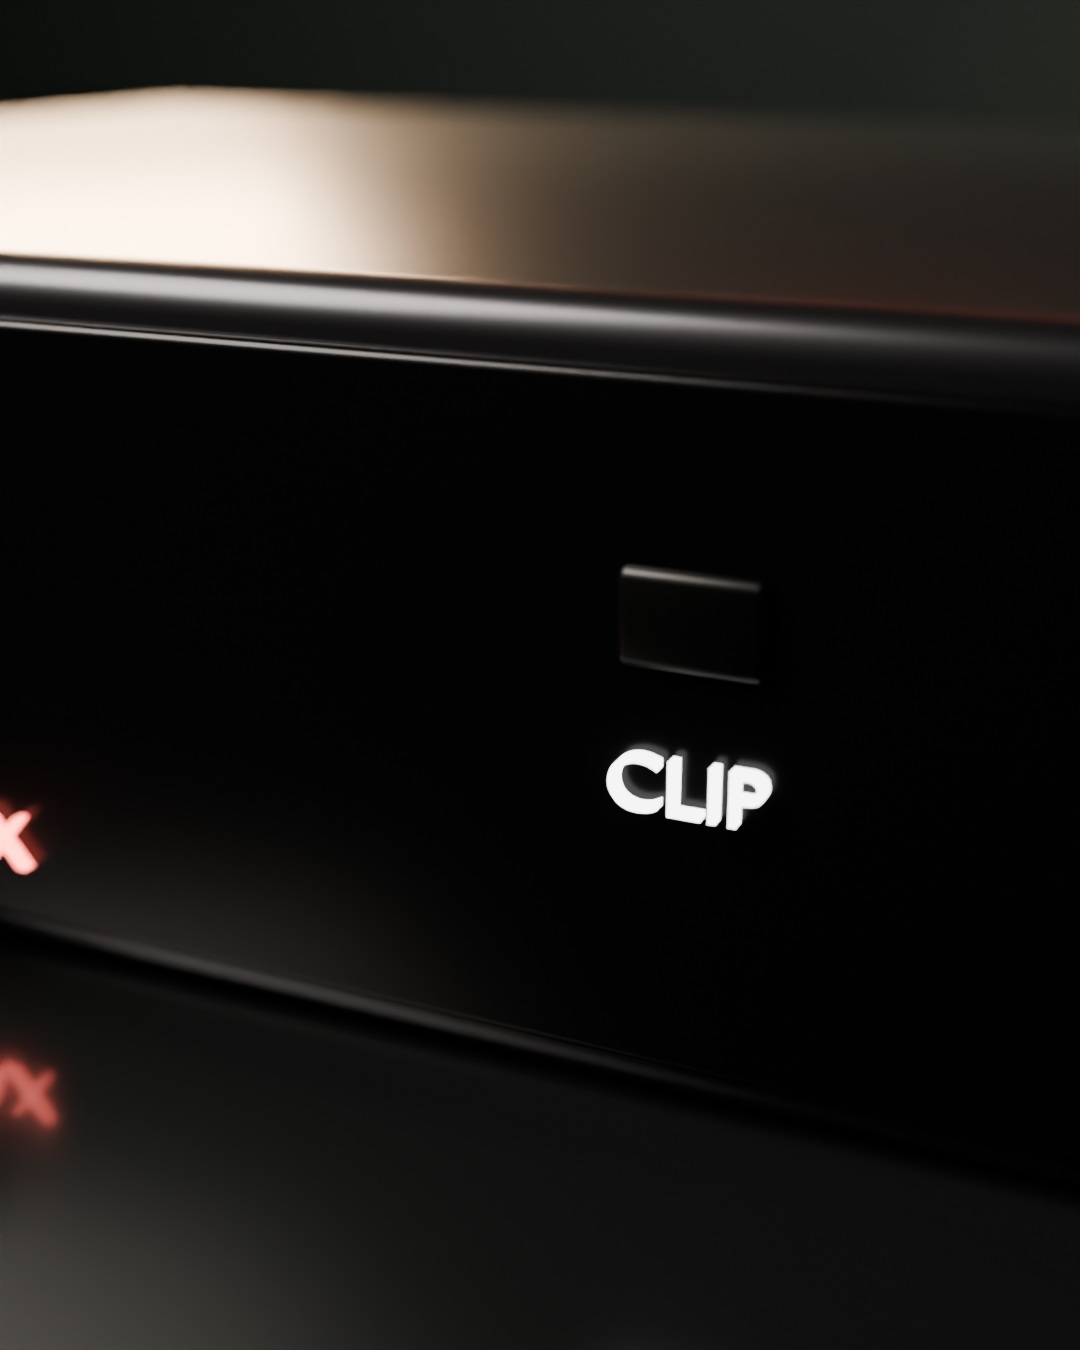
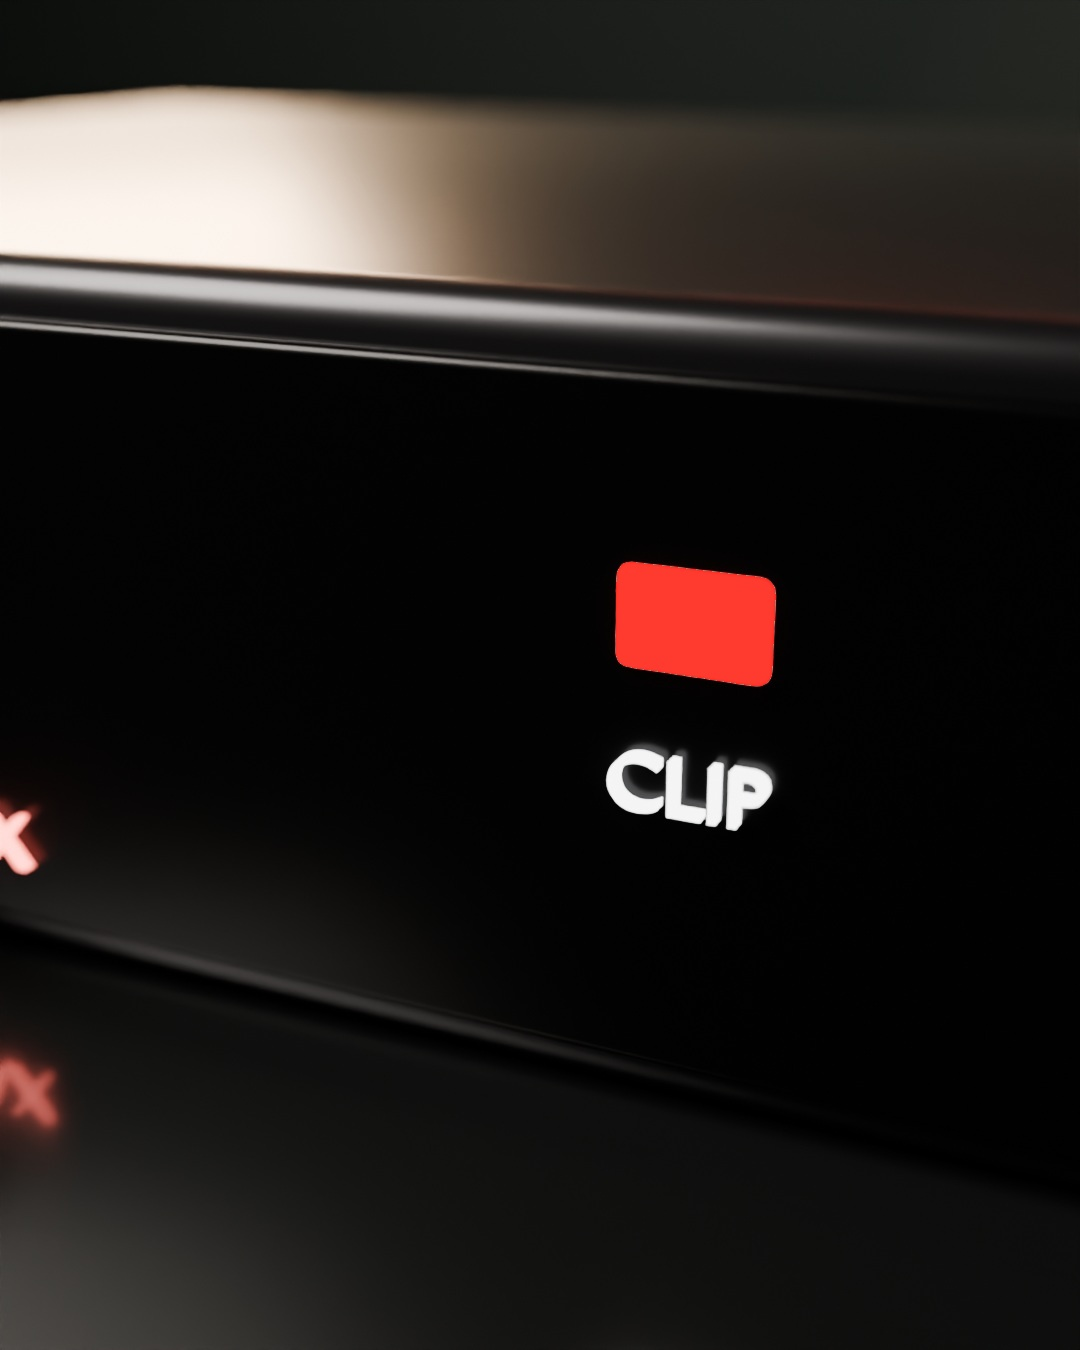
Fila 28/11: carrossel SOM 3 sinais de ganho errado (capa 3D) + story; historico e obras_fila
Claude-Session: https://claude.ai/code/session_01MtAUW4i5aQnPYXV45ZYZjX

Changed region(s): [[0.55, 0.4044, 0.7333, 0.5289]]

diff --git a/automacao/historico.md b/automacao/historico.md
@@ -113,3 +113,4 @@
 | 2026-11-24 06h45 (conferência de 23/11, atrasada) | Conferência Windsor | NADA publicado em 21, 22 e 23/11 (Windsor: último post 20/11 19h13; 0 stories nas últimas 24 h; 108 mídias). Causa: todas as rotinas de publicação (09h/12h/15h/19h/21h) falharam por LIMITE DE USO da conta Claude; a produção diária está desligada (computador ausente) e a fila acabava em 23/11. Correção: peças prontas e não publicadas remanejadas — 23→24/11, 22→25/11, 21→26/11 (kickers com dia da semana refeitos: stories 09h/21h de 24 e 25 com premium.py; 21/11 com troca 'SÁBADO'→'QUINTA' nas artes e legenda do feed). Métricas de 4 posts de 20/11 em aprendizados.md. | — | — | — |
 | 2026-11-24 07h45 (verificação) | Troca de trilhas — pedido do João 18/11 23h40 | Conferidos os 6 Reels ainda não publicados da fila 24, 25 e 26/11 (peças remanejadas de 21–23/11): nenhum usa MOVE Original nem efeitos básicos; todos com faixa real do YouTube (24/11 Mirror Mirror e Twinkle; 25/11 Duty Calls e Survival Mode; 26/11 Vibe Check e Circuit Rush), −13,8 a −14,0 LUFS. Nada a trocar. Regra já gravada no README (seção VARIEDADE) | — | — | — |
 | 2026-11-24 (fila 27/11) | Story 09h + Feed + Reel 12h + Story 15h + Carrossel 7 + Reel 19h + Story 21h + stories de divulgação | 09h sexta casa pronta (ChatGPT); 12h feed OBRA REAL salão Pousada Sunset Porto Belo; 12h Reel SOM obra real pousada "De onde vem essa música?" (fotos + vídeo reais, voz Iamin); 15h enquete câmera cabo × Wi-Fi; 19h carrossel SEGURANÇA câmera que não trava (5 cuidados, capa 3D); 19h Reel SEGURANÇA MOVE Explica 3D câmera no Wi-Fi fraco × cabo PoE (voz Iamin); 21h cinema de sexta | pousada sunset porto belo: IMG_20250215_171716/1739/1743/1756/1804.jpg + VID-20250716-WA0168.mp4 (trecho 7,6–12 s, sem pessoas); ChatGPT automacao/planob/img_1127 (t0 sala vista mar, t1 rack, t2/t4 técnico); Cine Privê com Poltronas de Couro.png (repositório/Downloads, 10/11) | 12h **Taking Flight — Blue Deer Studio** (Cinematic); 19h **Ten — Anno Domini Beats** (Hip-Hop dramático) — YouTube Audio Library; efeitos só impacto/riser/swoosh | (a publicar) |
+| 2026-11-24 (fila 28/11) | Story 09h + Feed + Reel 12h + Story 15h + Carrossel 6 + Reel 19h + Story 21h + stories de divulgação | Produzido por uma 2ª execução simultânea da rotina de 24/11 (27/11 já tinha sido preenchido pela outra). 09h bastidor real obra Romanza; 12h feed OBRA REAL espelho com perfil de LED (cliente Katia); 12h Reel SEGURANÇA cena ChatGPT ultrarrealista "Perdeu 3 entregas este mês?" → videoporteiro no celular (voz Iamin); 15h enquete "sua obra está em qual etapa?"; 19h carrossel SOM 3 sinais de ganho errado (capa = quadro 3D); 19h Reel SOM MOVE Explica 3D ganho do amplificador no máximo × ganho até antes de distorcer (voz Iamin); 21h cinema de sábado. ATENÇÃO 29/11: rodízio pede AUTOMAÇÃO + REDE (27–28/11 = som, segurança, segurança, som) | cliente katia/VID-20250507-WA0020.mp4 (quadro 1,6 s); romanza/VID-20250415-WA0071.mp4 (quadros 0 s e 16,5 s); ChatGPT automacao/planob/img_1128 (p1–p6 Reel, p7 cinema, p8 amplificador, p9 living); quadros 3D g_*.jpg | 12h **Rubberband — The Grey Room / Density & Time** (Hip-Hop dramático); 19h **Fire In The Sky — Alex Jones / Xander Jones** (Dance & Electronic dramático) — YouTube Audio Library; efeitos só impacto/riser/swoosh | (a publicar) |

diff --git a/automacao/obras_fila.md b/automacao/obras_fila.md
@@ -7,10 +7,10 @@ O João colocou ~70 vídeos organizados por obra/cliente. Regra: 1 obra por Reel
 | 1 | hotel candeias balneario camboriu | 15 vídeos (WhatsApp, 8–83 s) + 5 fotos: Clube Candeias (lounge com jardim vertical, escada colorida, restaurante com TVs, fachada, caixa/amplificador no rack) | "Som ambiente em hotel em BC": fachada → escada → lounge → TVs → equipamento | FEITO — Reel 20/11 12h (8 vídeos) + feed e 3 stories 20/11 |
 | 2 | House Beer | 1 vídeo + 2 fotos 09/04/2026, 1 vídeo 2024 | sonorização de bar/cervejaria em BC | a fazer |
 | 3 | posto | 2 vídeos 09/04/2026 (38 MB e 12 MB) | sonorização de posto em BC | a fazer |
-| 4 | romanza | 3 vídeos (1 de 121 MB) | — ver conteúdo | a fazer |
+| 4 | romanza | 3 vídeos (1 de 121 MB) | obra comercial (marcenaria, forro) | 2 quadros de VID-20250415-WA0071 em stories 28/11 |
 | 5 | pousada sunset porto belo | 2 vídeos + 5 fotos | som em pousada, Porto Belo | a fazer |
 | 6 | floripa | 4 vídeos | obra em Florianópolis | a fazer |
-| 7 | cliente katia | 3 vídeos | — ver conteúdo | a fazer |
+| 7 | cliente katia | 3 vídeos | banheiro/closet com perfil de LED | quadro de VID-20250507-WA0020 no feed 28/11 |
 | 8 | cliente itajai | 2 vídeos | obra em Itajaí | a fazer |
 | 9 | ballneario | 2 vídeos | obra em Balneário | a fazer |
 | 10 | lap tv suportes | 4 vídeos curtos | instalação de suporte de TV | a fazer |
